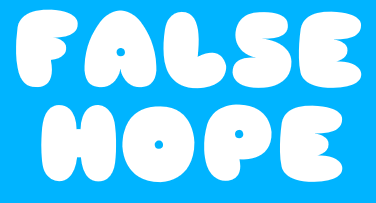
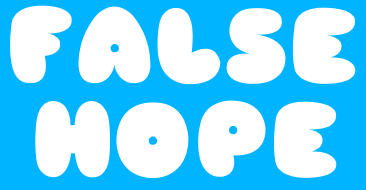
cname revert

diff --git a/index.html b/index.html
@@ -42,7 +42,7 @@
 			</div>
 			
 <!--TITLE--->
-<br/><br/><br/>
+
 <center><img src="falsehope.png"/></center>
 <!--TREE----------------------->	
 			  <div class="trunk">
